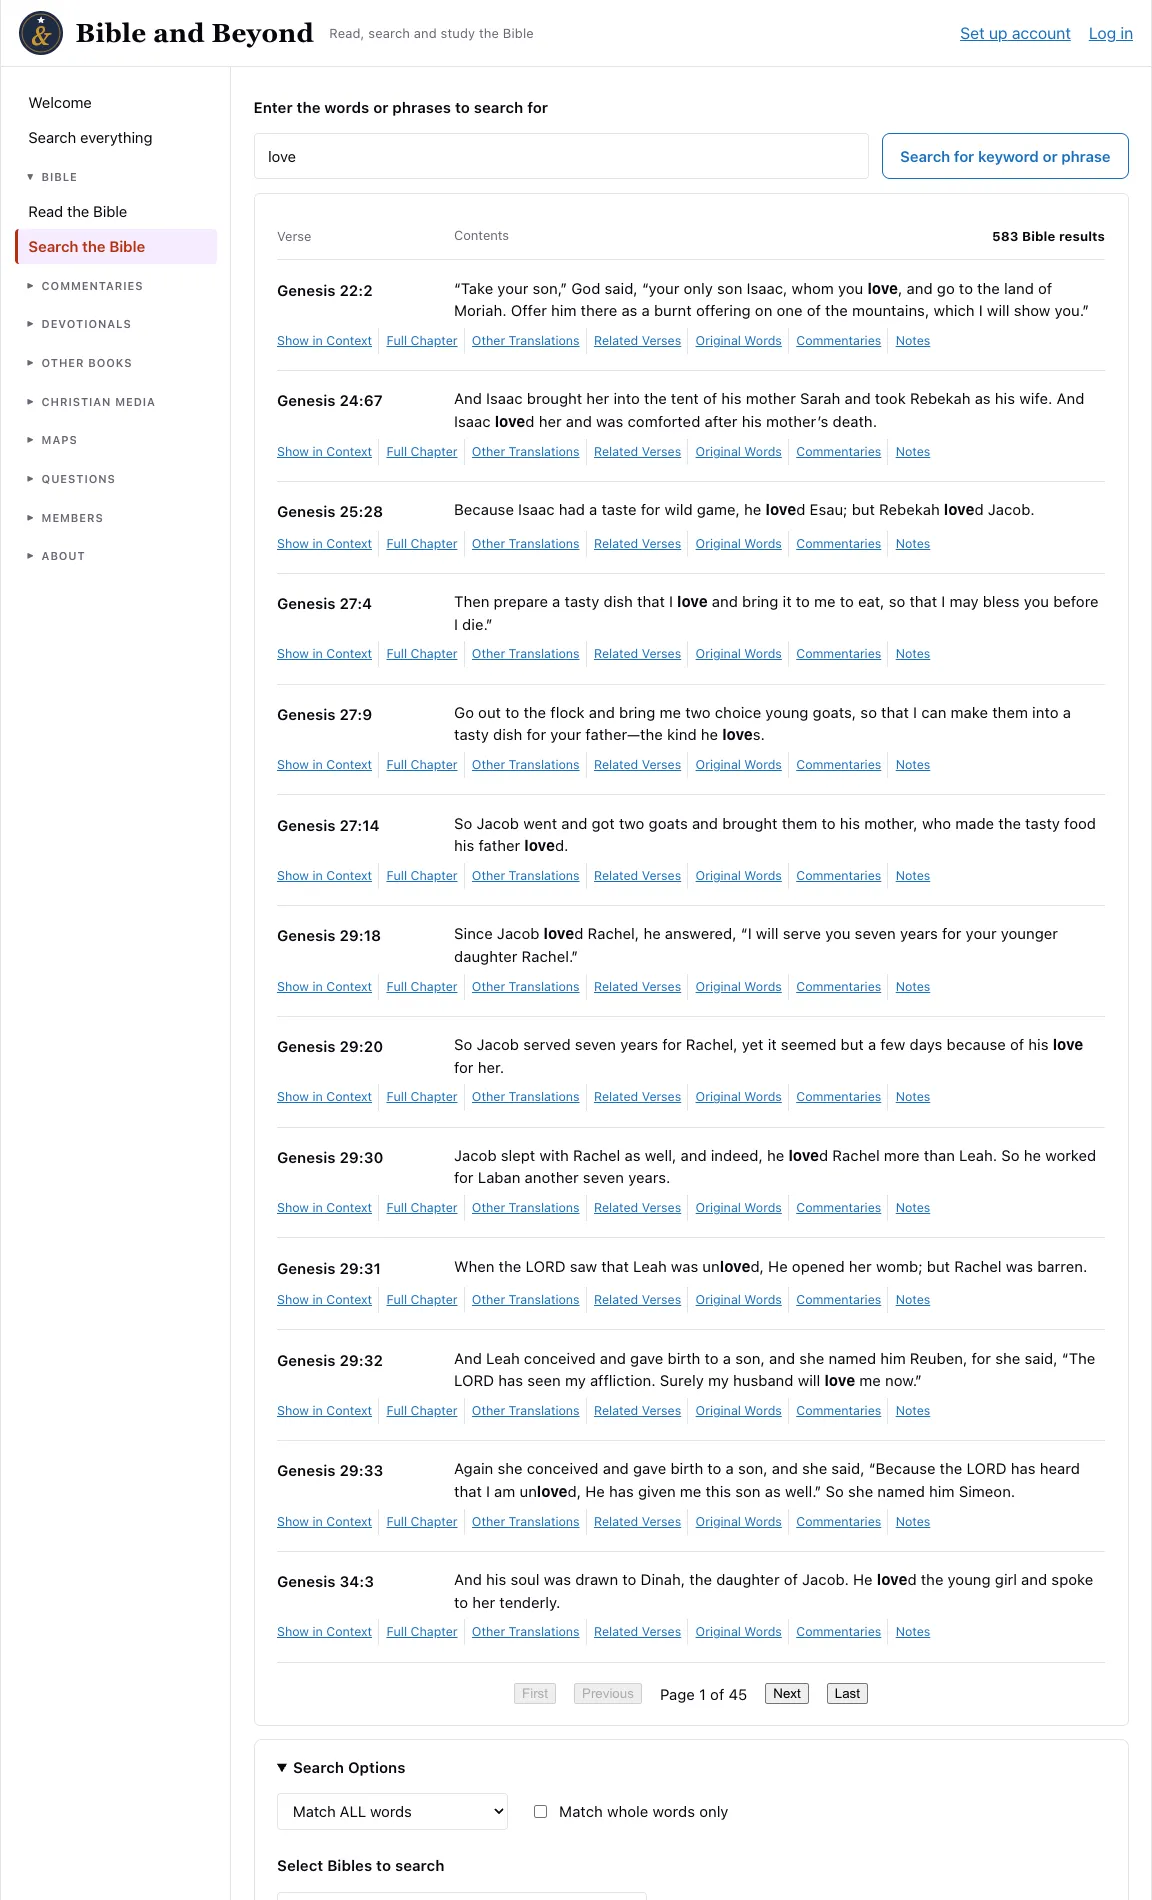
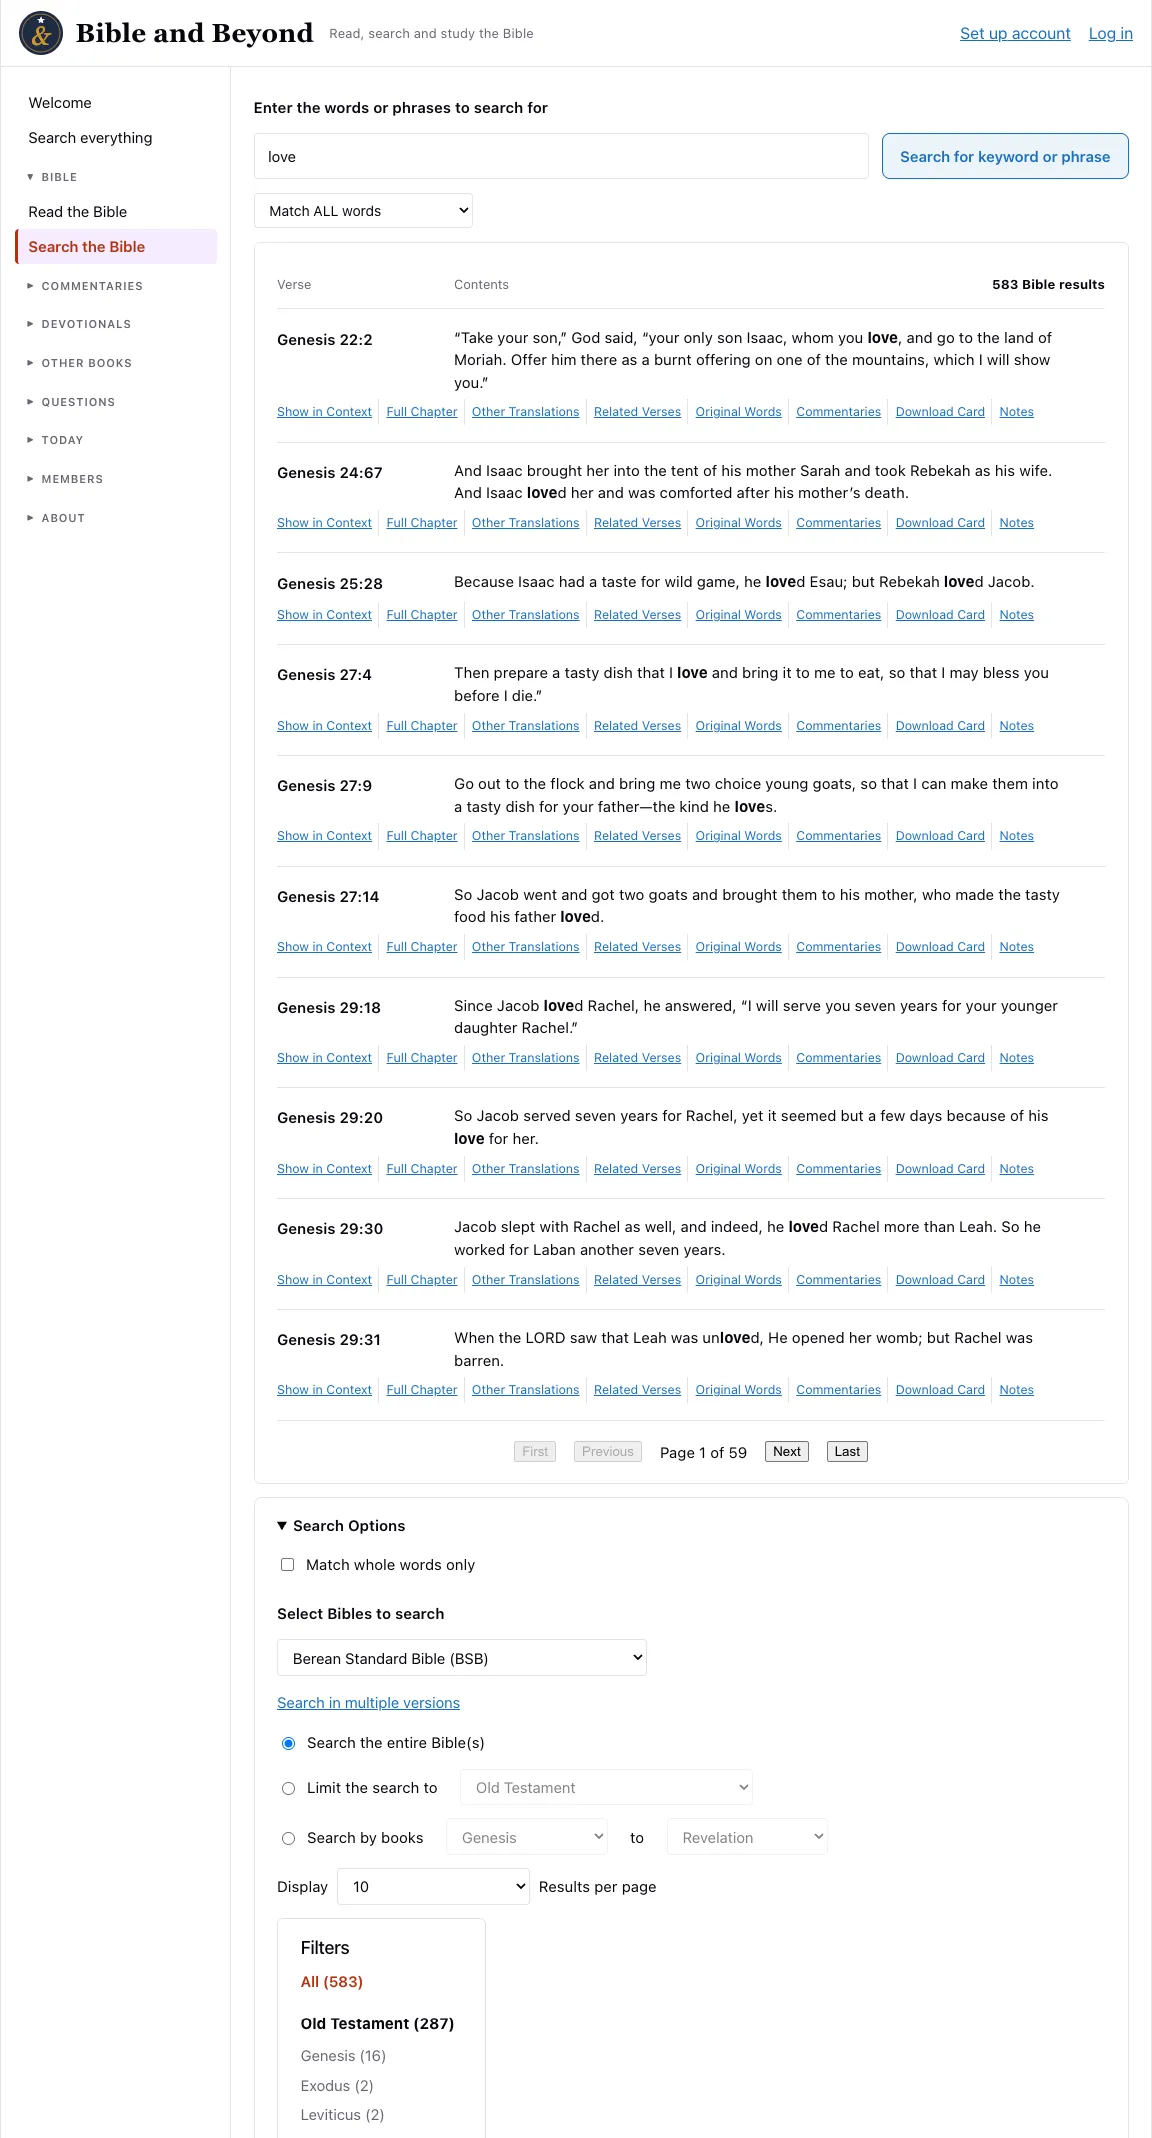
Search: show the Match select (with Use AI) outside Search Options
On the Bible and commentary search pages the Match select, with its AI
and Internet Archive notes, now sits under the search box instead of in
the collapsed Search Options, as on Search everything. Help text and the
bible-search, search-commentaries, ai-search-options and
ai-search-results pictures updated; CLAUDE.md notes the change.

diff --git a/frontend/src/SearchForm.tsx b/frontend/src/SearchForm.tsx
@@ -146,58 +146,60 @@ function SearchForm({
         </button>
       </div>
 
+      {/* The Match select (with "Use AI") is always shown, not inside the collapsed Search Options. */}
+      <div className="book-search-options">
+        <select
+          aria-label="Match mode"
+          value={effectiveMatchMode}
+          disabled={onlyLicensed && !isCommentarySearch}
+          onChange={(event) => setMatchMode(event.target.value as SearchMatchMode)}
+        >
+          <option value="all">Match ALL words</option>
+          <option value="any">Match ANY word</option>
+          <option value="phrase">Match exact phrase</option>
+          {canUseAi && (
+            <option value="ai">{isCommentarySearch ? 'Use AI to find related notes' : 'Use AI to find related verses'}</option>
+          )}
+          <option value="archive">Search the Internet Archive</option>
+        </select>
+      </div>
+      {isArchiveSearch && (
+        <p className="option-note">
+          Searches inside the books and documents of the Internet Archive (archive.org), including its lending library
+          of books still under copyright, which anyone can borrow free for an hour with an Archive account. The
+          results open on archive.org; the other options do not apply.
+        </p>
+      )}
+      {isAiSearch && isCommentarySearch && (
+        <p className="option-note">
+          AI finds the notes closest in meaning to what you type, even when they use other words (the
+          beatitudes finds notes on &ldquo;Blessed are the poor in spirit&rdquo;). Up to 50 notes, closest
+          first. It can be wrong, so read each note.
+        </p>
+      )}
+      {isAiSearch && !isCommentarySearch && (
+        <p className="option-note">
+          An AI (Google's Gemini) suggests up to 30 verses related to what you type, and they are listed from
+          the Bibles on this site, in Bible order. The AI can be wrong, so read each verse in context. The
+          licensed Bibles (NIV, NASB, The Message) are not searched this way.
+        </p>
+      )}
+
       {children}
 
       <details className="search-options">
         <summary>Search Options</summary>
         <div className="options-body">
-          <div className="form-row">
-            <select
-              aria-label="Match mode"
-              value={effectiveMatchMode}
-              disabled={onlyLicensed && !isCommentarySearch}
-              onChange={(event) => setMatchMode(event.target.value as SearchMatchMode)}
-            >
-              <option value="all">Match ALL words</option>
-              <option value="any">Match ANY word</option>
-              <option value="phrase">Match exact phrase</option>
-              {canUseAi && (
-                <option value="ai">{isCommentarySearch ? 'Use AI to find related notes' : 'Use AI to find related verses'}</option>
-              )}
-              <option value="archive">Search the Internet Archive</option>
-            </select>
-            {!isCommentarySearch && (
-              <label className="inline-label">
-                <input
-                  type="checkbox"
-                  checked={wholeWords && !onlyLicensed && !isAiSearch && !isArchiveSearch}
-                  disabled={onlyLicensed || isAiSearch || isArchiveSearch}
-                  onChange={(event) => setWholeWords(event.target.checked)}
-                />
-                Match whole words only
-              </label>
-            )}
-          </div>
-          {isArchiveSearch && (
-            <p className="option-note">
-              Searches inside the books and documents of the Internet Archive (archive.org), including its lending library
-              of books still under copyright, which anyone can borrow free for an hour with an Archive account. The
-              results open on archive.org; the other options here do not apply.
-            </p>
-          )}
-          {isAiSearch && isCommentarySearch && (
-            <p className="option-note">
-              AI finds the notes closest in meaning to what you type, even when they use other words (the
-              beatitudes finds notes on &ldquo;Blessed are the poor in spirit&rdquo;). Up to 50 notes, closest
-              first. It can be wrong, so read each note.
-            </p>
-          )}
-          {isAiSearch && !isCommentarySearch && (
-            <p className="option-note">
-              An AI (Google's Gemini) suggests up to 30 verses related to what you type, and they are listed from
-              the Bibles on this site, in Bible order. The AI can be wrong, so read each verse in context. The
-              licensed Bibles (NIV, NASB, The Message) are not searched this way.
-            </p>
+          {!isCommentarySearch && (
+            <label className="inline-label">
+              <input
+                type="checkbox"
+                checked={wholeWords && !onlyLicensed && !isAiSearch && !isArchiveSearch}
+                disabled={onlyLicensed || isAiSearch || isArchiveSearch}
+                onChange={(event) => setWholeWords(event.target.checked)}
+              />
+              Match whole words only
+            </label>
           )}
           {isCommentarySearch && !isAiSearch && (
             <p className="option-note">

diff --git a/frontend/src/HelpPage.tsx b/frontend/src/HelpPage.tsx
@@ -320,12 +320,26 @@ function HelpPage({ translations, onNavigate, hasMusic = false, hasMaps = false 
           picture (the words over a photograph, as on <em>Verse of the day</em>) to share. Click the <em>Verse</em> or <em>Contents</em> heading
           of the list to sort the results by it, and <em>Clear Sort</em> to go back to Bible order.
         </p>
-        <p>Open <strong>Search Options</strong> under the results to change how and where the search looks:</p>
+        <p>The list under the search box chooses how your words are matched:</p>
         <ul className="welcome-tips">
           <li>
             <strong>Match ALL words, ANY word or the exact phrase.</strong> A phrase in quotation marks is kept
             together.
           </li>
+          <li>
+            <strong>Use AI to find related verses.</strong> For accounts that may ask their own FAQ questions (see the
+            FAQ section below for how to ask for it), this extra choice has an AI (Google&rsquo;s Gemini) suggest up to
+            30 verses about what you describe, such as &ldquo;comfort when someone has died&rdquo;, and lists them from
+            the Bibles on this site in Bible order. The AI can be wrong, so read each verse in context. Up to 50 new AI
+            searches a day; the licensed Bibles are not searched this way.
+          </li>
+          <li>
+            <strong>Search the Internet Archive.</strong> Searches the books and documents of the Internet Archive
+            instead (see Search everything above).
+          </li>
+        </ul>
+        <p>Open <strong>Search Options</strong> under the results to change where the search looks:</p>
+        <ul className="welcome-tips">
           <li>
             <strong>Match whole words only.</strong> Without it, &ldquo;love&rdquo; also finds &ldquo;beloved&rdquo; and
             &ldquo;loved&rdquo;.
@@ -361,28 +375,28 @@ function HelpPage({ translations, onNavigate, hasMusic = false, hasMaps = false 
         <Screenshot
           name="bible-search"
           width={1152}
-          height={1900}
+          height={2138}
           alt="Search results for love in the BSB, with the search options open"
           caption="“love” searched in the Berean Standard Bible, with the Search Options open."
         />
         <p>
           <strong>Searching with AI.</strong> If your account may ask its own FAQ questions, choose <em>Use AI to find
-          related verses</em> in Search Options, describe what you are looking for in your own words, and press{' '}
+          related verses</em> in the list under the search box (no need to open Search Options), describe what you are looking for in your own words, and press{' '}
           <em>Find verses with AI</em>. The verses it suggests are listed like any search, with all the same links.
         </p>
         <Screenshot
           name="ai-search-results"
           width={1152}
           height={860}
-          alt="AI search results for forgiving someone who hurt me, starting with Genesis 50:20 and verses from Proverbs"
+          alt="AI search results for forgiving someone who hurt me, with the AI choice under the search box and Genesis 50:17 first"
           caption="An AI search for “forgiving someone who hurt me”: 30 verses suggested by Gemini, listed in Bible order with their links."
         />
         <Screenshot
           name="ai-search-options"
           width={1152}
-          height={860}
-          alt="Search Options with Use AI to find related verses chosen, its explanation, and the filters by book"
-          caption="Use AI to find related verses, chosen in Search Options (shown only to accounts it has been turned on for)."
+          height={600}
+          alt="The Match list under the search box, opened, with Use AI to find related verses chosen and its explanation below"
+          caption="Use AI to find related verses, chosen in the list under the search box (shown only to accounts it has been turned on for)."
         />
       </section>
 
@@ -414,7 +428,7 @@ function HelpPage({ translations, onNavigate, hasMusic = false, hasMaps = false 
         <Screenshot
           name="search-commentaries"
           width={1152}
-          height={1631}
+          height={2674}
           alt="Commentary search results for love, best matches first, with the search options open"
           caption="Searching the commentaries for “love”: 7,695 notes, best matches first."
         />

diff --git a/CLAUDE.md b/CLAUDE.md
@@ -134,11 +134,12 @@ A web app that answers Bible questions using AI/ML.
 - `frontend/index.html` starts its `<head>` with the Google tag the owner was given when setting up Google Ads on 2026-11-11 (Tag Manager container `GTM-PSTDLCSW`). It is Google's snippet, except that it is **loaded only when the host is bible-and-beyond.com or www.bible-and-beyond.com**, so local development and other people's container installs never report to the owner's account. The site's Content-Security-Policy has no script rule, so nothing else had to change. What the tag does (conversions, analytics) is set up in Google Tag Manager, not in this repository. It sets Google cookies; the Privacy page names it (see "Privacy page"), and the site has no cookie notice.
 
 ## AI search of the Bible (accounts with open_ai_queries)
-- Added 2026-11-11 at the owner's request: on the Bible search page, **"Use AI to find related verses"** is a fourth choice in the Match select of Search Options (after ALL words, ANY word and exact phrase), **shown only to a logged-in account with `open_ai_queries`** (the same switch as the FAQ's own questions, set on the Drupal Site users page) and not on the commentary search. With it the button reads "Find verses with AI", whole words is greyed out, and a note says what it does.
+- Added 2026-11-11 at the owner's request: on the Bible search page, **"Use AI to find related verses"** is a fourth choice in the Match select (after ALL words, ANY word and exact phrase), **shown only to a logged-in account with `open_ai_queries`** (the same switch as the FAQ's own questions, set on the Drupal Site users page) and not on the commentary search. With it the button reads "Find verses with AI", whole words is greyed out, and a note says what it does.
 - `GET /search?match_mode=ai` (`search_with_ai` in `main.py`): 401 when logged out, 403 when the account is not allowed, 422 for the licensed Bibles (their text never goes near an AI, and they cannot be listed by verse; the page leaves their sections out in AI mode, `splitTranslations`). `ai_search.find_verses` sends Gemini **"Search for Bible verses related to: " and the visitor's words** (the owner's wording), with a system prompt asking for references only, one verse per line, most relevant first, at most 30, NONE when nothing fits. The references are read with `find_references` (the commentary reference finder, so a verse that does not exist is dropped; a range gives its first verse), and `search_verses(..., references=...)` lists those verses from the chosen Bibles like any search (counts per book, filter, paging, sorting, every verse link); nothing is bolded. The answer adds `ai: true` and `ai_verse_count`. Results are in Bible order, not Gemini's order.
 - **Kept in memory for a day per query** (normalized: case and spaces), so paging, sorting and the book filter (each a new request) cost no Gemini call, and **in the database for 30 days** (`ai_cache.py`, table `ai_search_cache`, migration 027; added 2026-11-12 at the owner's request, the same rules as the FAQ answers): the same search by anyone later, even after a restart or deploy, is quick and costs no AI call. A kept answer is used only while it was made with the same instructions (`ai_search.VERSION`, a hash of the prompt; for the embeddings the model and size), so changing the prompt fetches new answers. **The query is stored only as a SHA-256 of its normalized words**, never as text. A database problem never stops a search (logged, Gemini asked). Old rows are removed whenever a new answer is kept. Not in the containers' data (`make-public-data.sh`). To start over: `DELETE FROM ai_search_cache`. **Each account may make 50 new AI searches a day** (`AI_SEARCHES_PER_DAY`, 429 after; a kept query does not count). Queries up to 300 characters. The query is never logged (only the account number and its length on a failure).
 - **Time**: nginx waits 40 s for `/api/search`, so `ask_gemini` was given a `total_seconds` argument and the AI search uses 35 (`GEMINI_SECONDS`); the FAQ keeps 85. A real search took about 7 s locally on 2026-11-11 (30 verses for "comfort when someone has died"). No nginx change was needed. The searches share nginx's `api_search` limit (30 a minute per visitor).
-- The page sends the login cookie only with AI searches (`credentials: 'include'` in `searchBible`; locally the page and the API are on different ports). The results heading says the verses were suggested by an AI and may be wrong. The Help page describes the choice under Search Options.
+- The page sends the login cookie only with AI searches (`credentials: 'include'` in `searchBible`; locally the page and the API are on different ports). The results heading says the verses were suggested by an AI and may be wrong. The Help page describes the choice with the Match list.
+- **The Match select is always visible** (2026-11-17, the owner's request: they liked how "Use AI" shows on Search everything without opening anything): on the Bible and commentary search pages (`SearchForm.tsx`) the Match select, with its AI and Internet Archive notes, sits **under the search box, outside the collapsed Search Options** (in a `book-search-options` row, as on Search everything, Search other books and Search the media, which always had it there). Match whole words only, the Bibles or commentary, the book limits, results per page and the filters stay inside Search Options. The Help pictures `bible-search`, `search-commentaries`, `ai-search-options` (now the Match list shown open, 600 tall) and `ai-search-results` were retaken that day for it.
 - Tests: `tests/test_ai_search.py` (7; Gemini faked, real verses and users tables, only their own `@ai-search-test.example` accounts). Checked locally on 2026-11-11 with a real Gemini call and a temporary account (deleted afterwards): the choice shows only when logged in with the switch on, the results and links work, and paging did not ask Gemini again.
 
 ## AI search of the commentaries, devotionals, other books and music (search by meaning)
